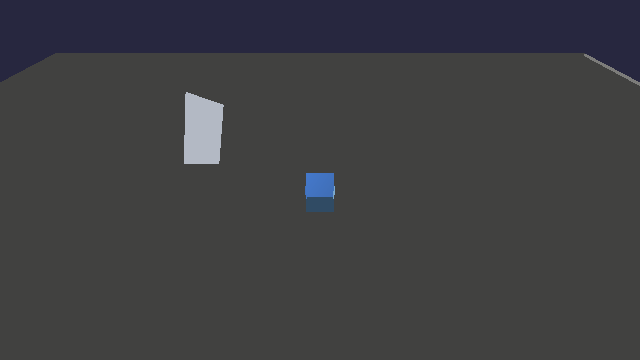
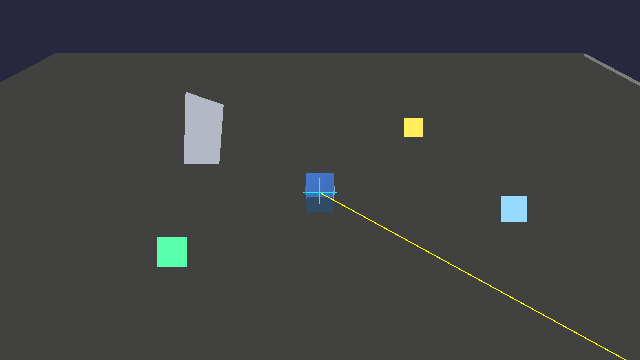
test(capture): bring demo playthrough harness up to date
render_demo_frame now composes the full current game_ready_demo — adds the
center spotlight (3rd light), the three sprite pickups, and the debug gizmos
(chase vector + player/chaser crosses) — so the headless playthrough gives
visual-regression coverage of this session's additions. Confirmed via
docs/visual/demo_frame_{a,b}.png (sprites, gizmos, and lighting all composite).

diff --git a/crates/voltex_capture/src/scene_playthrough.rs b/crates/voltex_capture/src/scene_playthrough.rs
@@ -1,14 +1,15 @@
 //! Headless "playthrough" of `examples/game_ready_demo` — composes the same
 //! scene (ground + blue player + red chaser + skinned totem + warm sun + two
-//! colored point lights + follow camera) and renders a single frame through the
-//! real `BasicRenderer`, with the skeleton advanced to time `t` and the
-//! player/chaser positions scripted. This is what lets the demo's *visual*
-//! output be verified offscreen (PNG) without running the interactive window.
+//! colored point lights + a center spotlight + sprite pickups + debug gizmos +
+//! follow camera) and renders a single frame through the real `BasicRenderer`,
+//! with the skeleton advanced to time `t` and the player/chaser positions
+//! scripted. This is what lets the demo's *visual* output be verified offscreen
+//! (PNG) without running the interactive window.
 
 use voltex_ecs::{propagate_transforms, MaterialHandle, MeshHandle, Transform, World};
 use voltex_math::Vec3;
-use voltex_renderer::{Camera, LightUniform, MaterialUniform, PointLight, SkinnedMesh};
-use voltex_renderer_ecs::{update_skinned_poses, BasicRenderer, RenderAssets, SkinnedPose};
+use voltex_renderer::{Camera, LightUniform, LineVertex, MaterialUniform, PointLight, SkinnedMesh};
+use voltex_renderer_ecs::{update_skinned_poses, BasicRenderer, RenderAssets, Sprite, SkinnedPose};
 
 use crate::headless::HeadlessGpu;
 use crate::scene::unit_cube;
@@ -72,6 +73,17 @@ pub fn render_demo_frame(
     world.add(totem, strip);
     world.add(totem, SkinnedPose::new(demo_skeleton(), wave_animation()));
 
+    // Floating sprite pickups (as in the demo).
+    for (pos, color) in [
+        (Vec3::new(4.0, 1.2, -4.0), [1.0, 0.85, 0.1, 1.0]),
+        (Vec3::new(-4.0, 1.2, 4.0), [0.1, 1.0, 0.4, 1.0]),
+        (Vec3::new(6.0, 1.2, 2.0), [0.3, 0.7, 1.0, 1.0]),
+    ] {
+        let p = world.spawn();
+        world.add(p, Transform::from_position(pos));
+        world.add(p, Sprite::solid([0.8, 0.8], color));
+    }
+
     // Advance the skeleton to time t.
     update_skinned_poses(&mut world, t);
     propagate_transforms(&mut world);
@@ -94,8 +106,26 @@ pub fn render_demo_frame(
         &[
             PointLight::new([6.0, 4.0, 6.0], [1.0, 0.6, 0.3], 18.0, 2.5),
             PointLight::new([-6.0, 4.0, -6.0], [0.3, 0.5, 1.0], 18.0, 2.5),
+            PointLight::spot([0.0, 9.0, 0.0], [0.0, -1.0, 0.0], [1.0, 1.0, 0.95], 22.0, 4.0, 28.0),
         ],
     );
+
+    // Debug gizmos (as in the demo's set_debug_draw_fn): yellow chase vector +
+    // crosses on player/chaser. Built as raw LineVertex pairs here (this crate
+    // doesn't depend on voltex_runtime's DebugLines helper).
+    let player_pos = Vec3::new(player_x, 0.5, 0.0);
+    let cross = |c: Vec3, h: f32, col: [f32; 3], out: &mut Vec<LineVertex>| {
+        for d in [Vec3::new(h, 0.0, 0.0), Vec3::new(0.0, h, 0.0), Vec3::new(0.0, 0.0, h)] {
+            out.push(LineVertex::new([(c - d).x, (c - d).y, (c - d).z], col));
+            out.push(LineVertex::new([(c + d).x, (c + d).y, (c + d).z], col));
+        }
+    };
+    let mut lines = Vec::new();
+    lines.push(LineVertex::new([chaser_pos.x, chaser_pos.y, chaser_pos.z], [1.0, 1.0, 0.0]));
+    lines.push(LineVertex::new([player_pos.x, player_pos.y, player_pos.z], [1.0, 1.0, 0.0]));
+    cross(player_pos, 0.6, [0.0, 1.0, 1.0], &mut lines);
+    cross(chaser_pos, 0.5, [1.0, 0.0, 1.0], &mut lines);
+    renderer.set_debug_lines(queue, &lines);
 
     let mut encoder = device.create_command_encoder(&wgpu::CommandEncoderDescriptor {
         label: Some("demo playthrough frame"),
